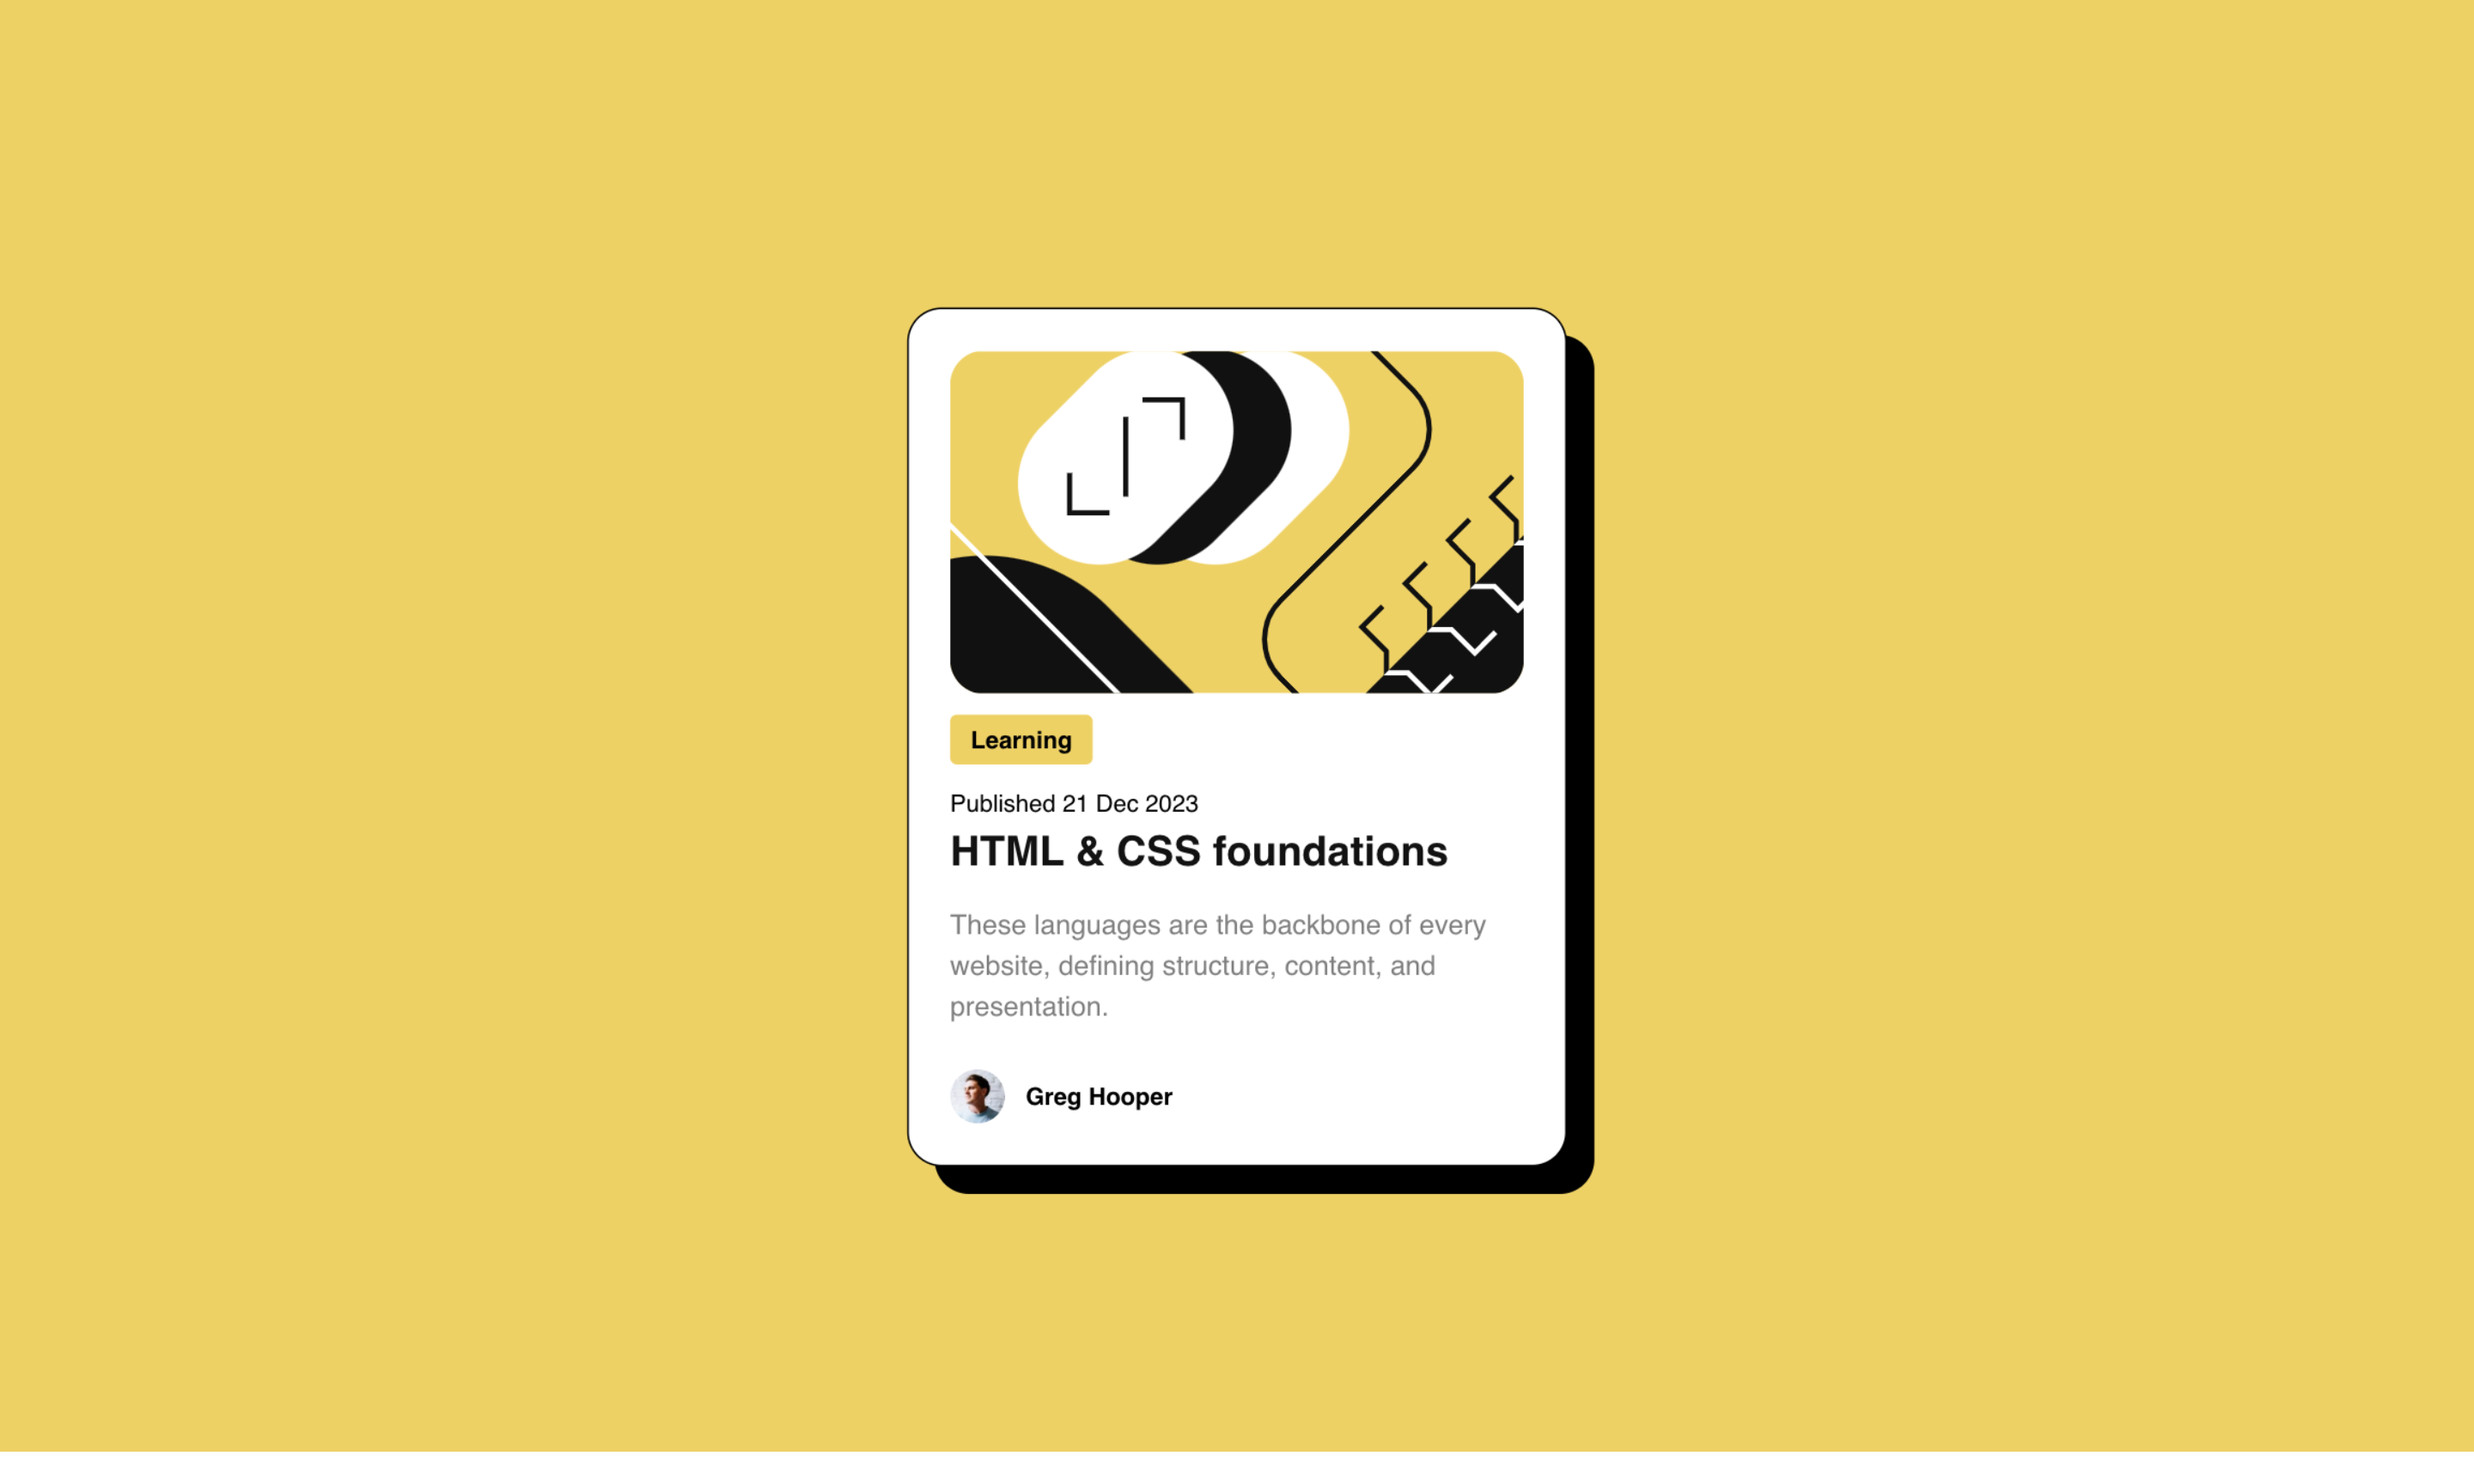
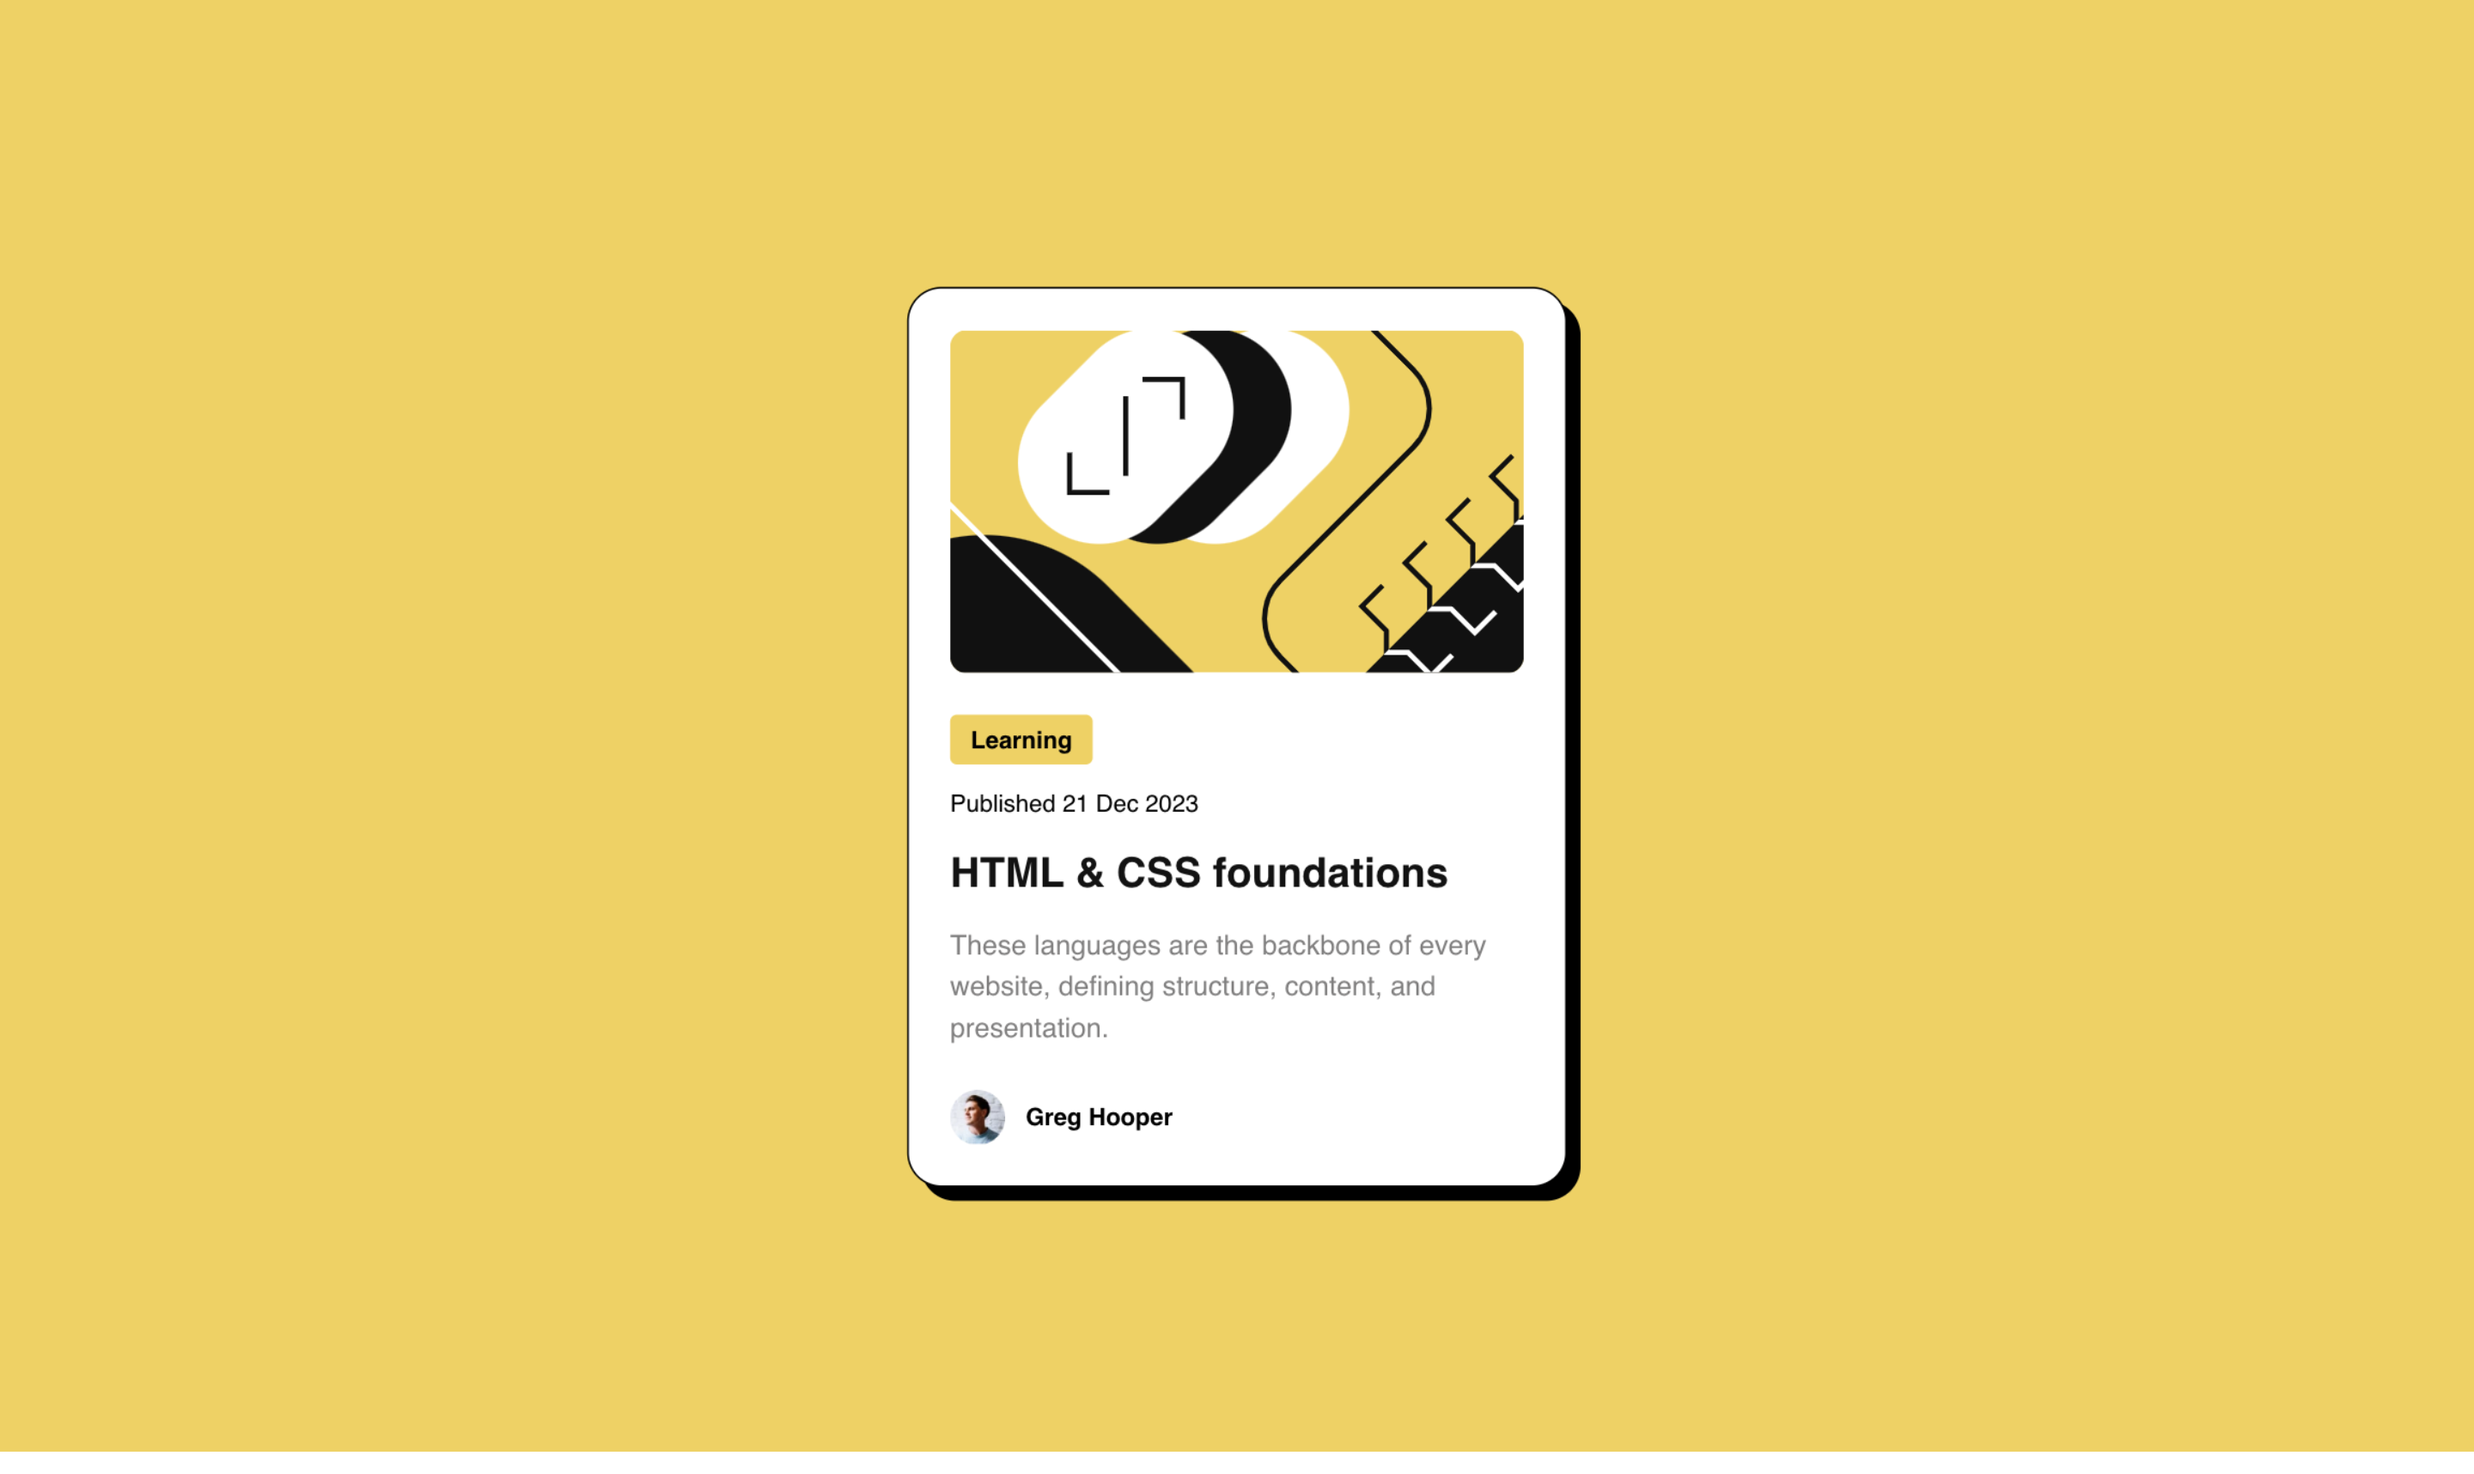
blog preview card challenge fixes

Changed region(s): [[0.3438, 0.1853, 0.6562, 0.8339]]

diff --git a/projects/FrontendMentor/newbie/blog-preview-card/index.html b/projects/FrontendMentor/newbie/blog-preview-card/index.html
@@ -26,20 +26,23 @@
 
 <body>
 
-	<article>
-		<img src="assets/images/illustration-article.svg" alt="Image of something">
-		<div class="category">Learning</div>
-		<p class="date">Published 21 Dec 2023</p>
-		<a href="#">
-			<h2>HTML &amp; CSS foundations</h2>
-		</a>
-		<p class="excerpt">These languages are the backbone of every website, defining structure, content, and
-			presentation.</p>
-		<div class="author-section">
-			<img src="assets/images/image-avatar.webp" alt="Professional looking picture of Greg Hooper">
-			<p class="author-name">Greg Hooper</p>
-		</div>
-	</article>
+	<h1 class="visually-hidden">Blog Preview Card Frontend Mentor Challenge Solution</h1>
+	<main>
+		<article>
+			<figure><img src="assets/images/illustration-article.svg" alt="Image of something"></figure>
+			<div class="category">Learning</div>
+			<p class="date">Published 21 Dec 2023</p>
+			<a href="#">
+				<h2>HTML &amp; CSS foundations</h2>
+			</a>
+			<p class="excerpt">These languages are the backbone of every website, defining structure, content, and
+				presentation.</p>
+			<div class="author-section">
+				<img src="assets/images/image-avatar.webp" alt="Professional looking picture of Greg Hooper">
+				<p class="author-name">Greg Hooper</p>
+			</div>
+		</article>
+	</main>
 
 	<!-- <div class="attribution">
 		Challenge by <a href="https://www.frontendmentor.io?ref=challenge" target="_blank">Frontend Mentor</a>.

diff --git a/projects/FrontendMentor/newbie/blog-preview-card/assets/css/theme.css b/projects/FrontendMentor/newbie/blog-preview-card/assets/css/theme.css
@@ -8,9 +8,11 @@ article {
 	border: black 1px solid;
 	/* shadow scales from 8px at 375, to 16 at 1440 */
 	box-shadow: var(--sizing-box-shadow) var(--sizing-box-shadow) black;
+	/*! design shows desktop active with 16px, but desktop inactive with 8px */
+	/* box-shadow: 8px 8px black; */
 
 	img {
-		border-radius: 20px;
+		border-radius: 10px;
 	}
 
 	a {
@@ -26,4 +28,8 @@ article {
 		background-color: var(--clr-yellow);
 		border-radius: 4px;
 	}
+}
+
+article:hover {
+	--sizing-box-shadow: 16px;
 }

diff --git a/projects/FrontendMentor/newbie/blog-preview-card/assets/css/variables.css b/projects/FrontendMentor/newbie/blog-preview-card/assets/css/variables.css
@@ -36,7 +36,8 @@
 	/** Sizing  */
 
 	/* shadow scales from 8px at 375, to 16 at 1440 */
-	--sizing-box-shadow: clamp(0.5rem, 0.3239rem + 0.7512vi, 1rem);
+	/* --sizing-box-shadow: clamp(0.5rem, 0.3239rem + 0.7512vi, 1rem); */
+	--sizing-box-shadow: 8px;
 	/* Size between: 327px → 384px */
 	--sizing-article-width: clamp(20.4375rem, 19.1831rem + 5.3521vi, 24rem);
 }

diff --git a/projects/FrontendMentor/newbie/blog-preview-card/assets/css/layout.css b/projects/FrontendMentor/newbie/blog-preview-card/assets/css/layout.css
@@ -5,6 +5,15 @@ article {
 		margin-top: 0.75rem;
 	}
 
+	a {
+		display: block;
+	}
+
+	img {
+		height: 200px;
+		object-fit: cover;
+	}
+
 	/* Size between: 327px → 384px */
 	width: var(--sizing-article-width);
 
@@ -27,6 +36,7 @@ article {
 	}
 
 	.category {
+		margin-top: 1.5rem;
 		padding: 0.25rem 0.75rem;
 		width: -moz-fit-content;
 		width: fit-content;

diff --git a/projects/FrontendMentor/newbie/blog-preview-card/assets/css/base.css b/projects/FrontendMentor/newbie/blog-preview-card/assets/css/base.css
@@ -6,3 +6,13 @@ body {
 
 	background-color: var(--clr-yellow);
 }
+
+.visually-hidden {
+	clip: rect(0 0 0 0);
+	clip-path: inset(50%);
+	height: 1px;
+	overflow: hidden;
+	position: absolute;
+	white-space: nowrap;
+	width: 1px;
+}
